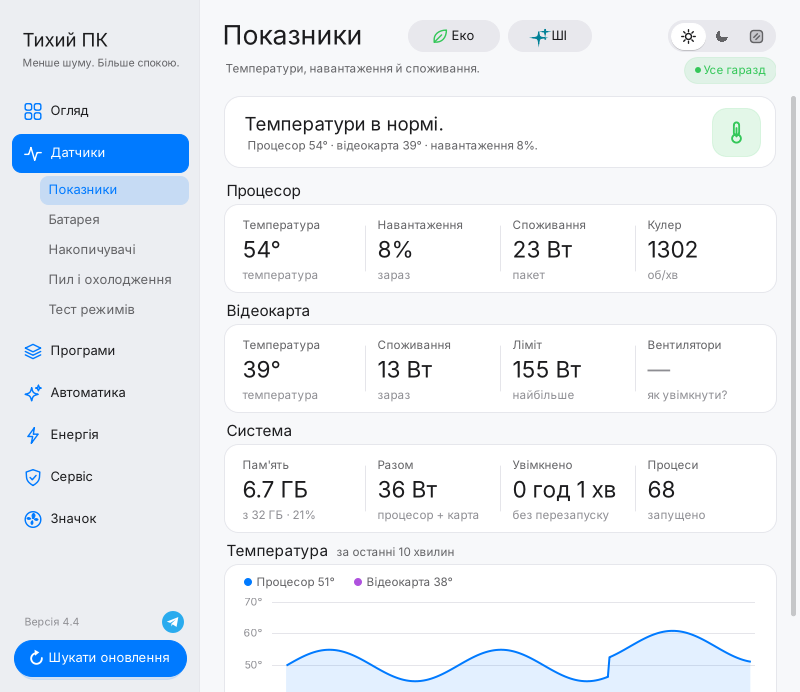
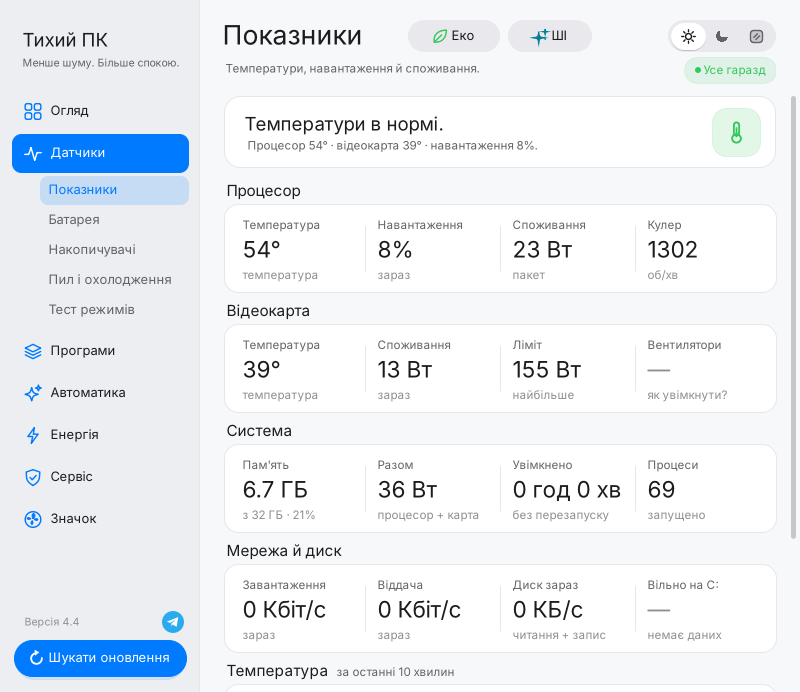
4.4: картка «Мережа й диск»
Claude-Session: https://claude.ai/code/session_01SfcRwrkwGvgeaTNGhf47q9

diff --git a/src/MainForm.NetDisk.cs b/src/MainForm.NetDisk.cs
@@ -1,0 +1,108 @@
+// Тихий ПК — «Мережа й диск» на сторінці «Показники»: швидкість інтернету, робота диска і вільне місце.
+using System;
+using System.Diagnostics;
+using System.IO;
+using System.Linq;
+using System.Net.NetworkInformation;
+
+namespace TyhyiPK
+{
+    partial class MainForm
+    {
+        long netRx = -1, netTx = -1;
+        DateTime netAt;
+        volatile PerformanceCounter diskRead, diskWrite;
+        volatile bool diskTried, diskFailed;
+
+        static string SysDrive()
+        {
+            try { return Path.GetPathRoot(Environment.SystemDirectory).TrimEnd('\\'); } catch { return "C:"; }
+        }
+
+        static string Bits(double bytesPerSec)
+        {
+            double mbit = bytesPerSec * 8 / 1e6;
+            if (mbit >= 100) return Math.Round(mbit) + " Мбіт/с";
+            if (mbit >= 1) return mbit.ToString("0.0") + " Мбіт/с";
+            return Math.Round(bytesPerSec * 8 / 1e3) + " Кбіт/с";
+        }
+
+        static string Bytes(double bytesPerSec)
+        {
+            double mb = bytesPerSec / 1048576.0;
+            if (mb >= 10) return Math.Round(mb) + " МБ/с";
+            if (mb >= 0.1) return mb.ToString("0.0") + " МБ/с";
+            return Math.Round(bytesPerSec / 1024) + " КБ/с";
+        }
+
+        void ShowNetDisk()
+        {
+            // Мережа: різниця переданих байтів з минулого разу по всіх увімкнених адаптерах.
+            try
+            {
+                long rx = 0, tx = 0;
+                foreach (var ni in NetworkInterface.GetAllNetworkInterfaces())
+                {
+                    if (ni.OperationalStatus != OperationalStatus.Up) continue;
+                    if (ni.NetworkInterfaceType == NetworkInterfaceType.Loopback || ni.NetworkInterfaceType == NetworkInterfaceType.Tunnel) continue;
+                    var st = ni.GetIPv4Statistics();
+                    rx += st.BytesReceived; tx += st.BytesSent;
+                }
+                var now = DateTime.UtcNow;
+                if (netRx >= 0)
+                {
+                    double sec = Math.Max(0.5, (now - netAt).TotalSeconds);
+                    double down = Math.Max(0, (rx - netRx) / sec), up = Math.Max(0, (tx - netTx) / sec);
+                    sNetDown.Set(Bits(down), null, "зараз", false);
+                    sNetUp.Set(Bits(up), null, "зараз", false);
+                }
+                else
+                {
+                    sNetDown.Set("…", Ui.Ink3, "", false);
+                    sNetUp.Set("…", Ui.Ink3, "", false);
+                }
+                netRx = rx; netTx = tx; netAt = now;
+            }
+            catch { sNetDown.Set("—", Ui.Ink3, "немає даних", false); sNetUp.Set("—", Ui.Ink3, "немає даних", false); }
+
+            // Диск: читання + запис усіх фізичних дисків (лічильники Windows).
+            try
+            {
+                if (!diskTried)
+                {
+                    // Лічильники Windows відкриваються повільно — у фоні, щоб вікно не підвисало.
+                    diskTried = true;
+                    sDiskIo.Set("…", Ui.Ink3, "", false);
+                    System.Threading.ThreadPool.QueueUserWorkItem(_ =>
+                    {
+                        try
+                        {
+                            var r = new PerformanceCounter("PhysicalDisk", "Disk Read Bytes/sec", "_Total", true);
+                            var w = new PerformanceCounter("PhysicalDisk", "Disk Write Bytes/sec", "_Total", true);
+                            r.NextValue(); w.NextValue();
+                            diskWrite = w; diskRead = r;
+                        }
+                        catch { diskFailed = true; }
+                    });
+                }
+                else if (diskRead != null && diskWrite != null)
+                {
+                    double r = diskRead.NextValue(), w = diskWrite.NextValue();
+                    sDiskIo.Set(Bytes(r + w), null, "читання + запис", false);
+                }
+                else if (diskFailed) sDiskIo.Set("—", Ui.Ink3, "немає даних", false);
+            }
+            catch { diskRead = diskWrite = null; sDiskIo.Set("—", Ui.Ink3, "немає даних", false); }
+
+            try
+            {
+                var d = new DriveInfo(SysDrive());
+                double free = d.AvailableFreeSpace / 1073741824.0, total = d.TotalSize / 1073741824.0;
+                int pct = (int)Math.Round(100 * free / Math.Max(1, total));
+                sDiskFree.Set(Math.Round(free) + " ГБ", pct < 10 ? Ui.Red : pct < 20 ? Ui.Orange : (System.Drawing.Color?)null,
+                    "з " + Math.Round(total) + " ГБ · " + pct + "%", false);
+            }
+            catch { sDiskFree.Set("—", Ui.Ink3, "немає даних", false); }
+        }
+    }
+}

diff --git a/src/MainForm.cs b/src/MainForm.cs
@@ -52,7 +52,7 @@ namespace TyhyiPK
         readonly HeroCard hero;
         readonly Label lblStatus;
         readonly StatTile mCpuTemp, mCpuLoad, mCpuPow, mFan, mGpuTemp, mGpuPow, mGpuLim, mGpuFan;
-        readonly StatTile sCpuTemp, sCpuLoad, sCpuPower, sFan, sGpuTemp, sGpuPower, sGpuLim, sGpuFan, sMem, sTotal, sUptime, sProcs;
+        readonly StatTile sCpuTemp, sCpuLoad, sCpuPower, sFan, sGpuTemp, sGpuPower, sGpuLim, sGpuFan, sMem, sTotal, sUptime, sProcs, sNetDown, sNetUp, sDiskIo, sDiskFree;
         readonly TempChart chart;
         readonly ProcList procList;
         readonly Toggle tgGame, tgAi, tgNight, tgBattery, tgHeat, tgAutorun;
@@ -206,11 +206,17 @@ namespace TyhyiPK
             sTotal = Tile(pageSensors, 1, 272, 80, "Разом");
             sUptime = Tile(pageSensors, 2, 272, 80, "Увімкнено");
             sProcs = Tile(pageSensors, 3, 272, 80, "Процеси");
-            pageSensors.SetCaption("chart", Ui.R(40, 368, 520, 18), "Температура|за останні 10 хвилин");
-            pageSensors.Cards.Add(Ui.R(24, 388, 552, 192));
+            pageSensors.SetCaption("snet", Ui.R(40, 368, 520, 18), "Мережа й диск");
+            pageSensors.Cards.Add(Ui.R(24, 388, 552, 88));
+            sNetDown = Tile(pageSensors, 0, 392, 80, "Завантаження");
+            sNetUp = Tile(pageSensors, 1, 392, 80, "Віддача");
+            sDiskIo = Tile(pageSensors, 2, 392, 80, "Диск зараз");
+            sDiskFree = Tile(pageSensors, 3, 392, 80, "Вільно на " + SysDrive());
+            pageSensors.SetCaption("chart", Ui.R(40, 488, 520, 18), "Температура|за останні 10 хвилин");
+            pageSensors.Cards.Add(Ui.R(24, 508, 552, 192));
             chart = new TempChart();
             chart.Data = history;
-            chart.Bounds = Ui.R(32, 392, 536, 184);
+            chart.Bounds = Ui.R(32, 512, 536, 184);
             pageSensors.Controls.Add(chart);
             foreach (var t in new[] { mCpuTemp, sCpuTemp }) t.SubClicked += (s, e) => ShowTempHelp();
             foreach (var t in new[] { mFan, sFan, sCpuPower, mCpuPow }) t.SubClicked += (s, e) => ShowTempHelp();

diff --git a/src/MainForm.Parts.cs b/src/MainForm.Parts.cs
@@ -708,6 +708,7 @@ namespace TyhyiPK
                 TimeSpan up; try { up = TimeSpan.FromMilliseconds(GetTickCount64()); } catch { up = TimeSpan.FromMilliseconds(Environment.TickCount & int.MaxValue); }
                 sUptime.Set(up.TotalHours >= 24 ? (int)up.TotalDays + " д " + up.Hours + " год" : (int)up.TotalHours + " год " + up.Minutes + " хв", null, "без перезапуску", false);
                 try { sProcs.Set(System.Diagnostics.Process.GetProcesses().Length.ToString(), null, "запущено", false); } catch { }
+                ShowNetDisk();
             }
             if (s.CpuLoad >= 0)
                 sCpuLoad.Set(s.CpuLoad + "%", s.CpuLoad >= 90 ? Ui.Orange : (Color?)null, "зараз", false);

diff --git a/CHANGES.md b/CHANGES.md
@@ -6,7 +6,7 @@
 - Кнопка «Еко» посередині над сторінкою — коли вимкнули світло. Процесор до 50% без прискорення, відеокарта на найменшому ліміті, екран ноутбука тьмяніший і гасне через 3 хвилини, а сама програма рідше опитує датчики. Вимикаєш — усе повертається як було.
 - Поруч з «Еко» — кнопка «ШІ» з іскорками: одним натиском відеокарта на 90% і примусові вентилятори для локальних моделей. З рядка режимів відеокарти «ШІ» прибрано, щоб не дублювати.
 - На «Огляді» показники тепер окремо для процесора й відеокарти — прямо над їхніми режимами: температура, навантаження, споживання, кулер, ліміт і вентилятори карти.
-- «Показники» теж розкладені по картках: «Процесор», «Відеокарта» (з лімітом і вентиляторами) і «Система» — пам'ять, загальне споживання, скільки ПК працює без перезапуску й скільки запущено процесів.
+- «Показники» теж розкладені по картках: «Процесор», «Відеокарта» (з лімітом і вентиляторами) і «Система» — пам'ять, загальне споживання, скільки ПК працює без перезапуску й скільки запущено процесів. Нова картка «Мережа й диск»: швидкість завантаження й віддачі, як зараз працює диск і скільки вільного місця на системному диску.
 - У темі «Скло» вибраний режим зафарбований своїм кольором з білим текстом — читається краще.
 - У темі «Скло» поля для чисел (тариф, решта ПК) більше не виглядають темними прямокутниками всередині плашки.
 
